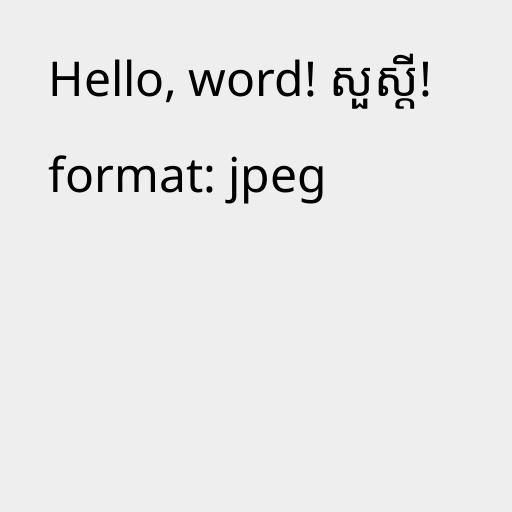
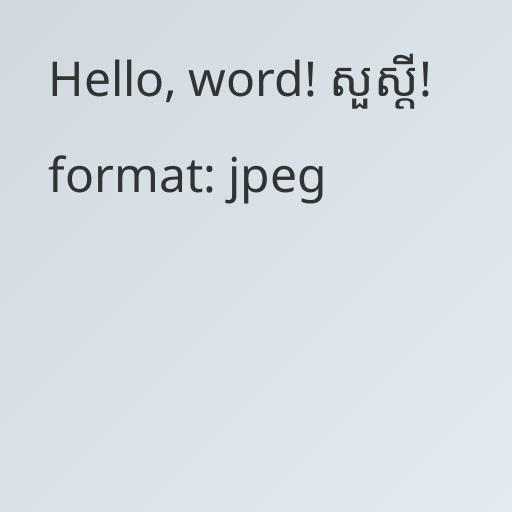
add gradient bg

Changed region(s): [[0.0, 0.0, 0.8438, 0.625]]

diff --git a/index.js b/index.js
@@ -7,32 +7,44 @@ const fontFamily = "Noto Sans Khmer"
 const fontSize = 48;
 const text = 'Hello, word! សួស្ដី!'
 
+
+console.time('load font');
+
 registerFont(fontPath, {
   family: fontFamily,
   weight: 400,
   style: 'normal'
 });
 
+console.timeEnd('load font');
+
 async function createImage(type, outputPath) {
+  console.time('render ' + type)
   const canvasType = type === 'svg' ? type : undefined;
   const canvas = createCanvas(512, 512, canvasType);
   const ctx = canvas.getContext('2d');
 
-  ctx.fillStyle = '#eee';
+  const gradient = ctx.createLinearGradient(0, 0, canvas.width, canvas.height);  
+  gradient.addColorStop(0, "#cfd9df");
+  gradient.addColorStop(1, "#e2ebf0");
+
+  ctx.fillStyle = gradient;
   ctx.fillRect(0, 0, canvas.width, canvas.height);
-  ctx.fillStyle = '#000';
+
+  ctx.fillStyle = '#333';
   ctx.font = `${fontSize}px ${fontFamily}`
   ctx.fillText(text, fontSize, fontSize * 2);
   ctx.fillText(`format: ${type}`, fontSize, fontSize * 4);
 
   const mime = type === 'svg' ? undefined : `image/${type}`;
-  const buffer = canvas.toBuffer(mime)
+  const buffer = canvas.toBuffer(mime, { quality: 1 });
+  console.timeEnd('render ' + type);
+
   await writeFile(outputPath, buffer);
 }
 
 await Promise.all([
-  createImage('svg', fileURLToPath(new URL("./image.svg", import.meta.url))),
+  createImage('jpeg', fileURLToPath(new URL("./image.jpg", import.meta.url))),
   createImage('png', fileURLToPath(new URL("./image.png", import.meta.url))),
-  createImage('jpeg', fileURLToPath(new URL("./image.jpg", import.meta.url)))
+  createImage('svg', fileURLToPath(new URL("./image.svg", import.meta.url))),
 ])
-
